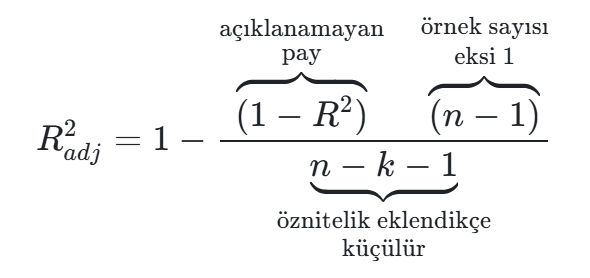
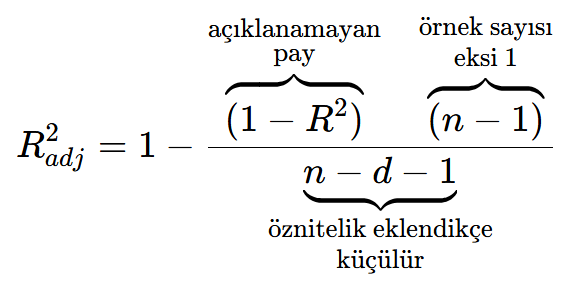
Düzeltilmiş R²'de öznitelik sayısı d, Laplace düzeltmesinde değer sayısı |V_j| ile gösterildi; formül görselleri yeniden üretildi, Laplace için Ne anlatıyor? eklendi

diff --git a/Ders_Notu.md b/Ders_Notu.md
@@ -1887,19 +1887,19 @@ $R^2 = 1 - 1725/61\thinspace 120 \approx 0.972$ → "Fiyatlardaki değişkenliğ
 Modele **anlamsız** bir öznitelik bile eklense (ev sahibinin ayakkabı numarası gibi), eğitim verisindeki $R^2$ artar ya da en kötü ihtimalle aynı kalır; asla azalmaz. Düzeltilmiş $R^2$ öznitelik sayısını cezalandırır:
 
 $$
-R^2_{adj} = 1 - \frac{(1-R^2)(n-1)}{n-k-1}
+R^2_{adj} = 1 - \frac{(1-R^2)(n-1)}{n-d-1}
 $$
 
-<p align="center"><img src="images/formuller/30.png" alt="Açıklamalı formül: Düzeltilmiş R kare" width="295"></p>
+<p align="center"><img src="images/formuller/30.png" alt="Açıklamalı formül: Düzeltilmiş R kare" width="285"></p>
 
-**Ne anlatıyor?** $k$ arttıkça payda küçülür, kesir büyür ve $R^2_{adj}$ düşer. Yeni öznitelik $R^2$'yi bu cezayı aşacak kadar artırmazsa $R^2_{adj}$ azalır.
+**Ne anlatıyor?** $d$ arttıkça payda küçülür, kesir büyür ve $R^2_{adj}$ düşer. Yeni öznitelik $R^2$'yi bu cezayı aşacak kadar artırmazsa $R^2_{adj}$ azalır.
 
 | Sembol | Okunuşu | Anlamı |
 | :---: | :--- | :--- |
 | $n$ | "en" | Örnek sayısı |
-| $k$ | "ka" | Modeldeki öznitelik (bağımsız değişken) sayısı |
+| $d$ | "de" | Modeldeki öznitelik (bağımsız değişken) sayısı |
 
-Eklenen öznitelik açıklayıcılığa anlamlı katkı yapmıyorsa $R^2_{adj}$ artmaz, hatta düşer. **Örnek:** $n = 5$, $k = 1$ için $R^2_{adj} = 1 - \frac{0.0282 \cdot 4}{3} \approx 0.962$.
+Eklenen öznitelik açıklayıcılığa anlamlı katkı yapmıyorsa $R^2_{adj}$ artmaz, hatta düşer. **Örnek:** $n = 5$, $d = 1$ için $R^2_{adj} = 1 - \frac{0.0282 \cdot 4}{3} \approx 0.962$.
 
 #### Korelasyon Katsayısı ($r$)
 
@@ -2178,11 +2178,13 @@ Normalize edersek: $P(no \mid \mathbf{x}) = \frac{0.0206}{0.0053+0.0206} \approx
 
 ### 11.4 Sıfır Frekans Sorunu ve Sayısal Öznitelikler (İleri Seviye)
 
-- **Sıfır frekans:** Eğitim verisinde "outlook = overcast" hiç "no" ile görülmemiştir; $P(overcast \mid no) = 0/5 = 0$. Çarpımda tek bir sıfır tüm sonucu sıfırlar. Çözüm **Laplace düzeltmesidir**: her sayıma 1 eklenir, $P(x_j = v \mid C) = \frac{\text{sayım} + 1}{n_C + k}$ ($k$: özniteliğin farklı değer sayısı). WEKA bunu otomatik yapar.
+- **Sıfır frekans:** Eğitim verisinde "outlook = overcast" hiç "no" ile görülmemiştir; $P(overcast \mid no) = 0/5 = 0$. Çarpımda tek bir sıfır tüm sonucu sıfırlar. Çözüm **Laplace düzeltmesidir**: her sayıma 1 eklenir, $P(x_j = v \mid C) = \frac{\text{sayım} + 1}{n_C + \lvert V_j \rvert}$ ($\lvert V_j \rvert$: $j$. özniteliğin alabileceği farklı değer sayısı). WEKA bunu otomatik yapar.
 
-  <img src="images/formuller/34.png" alt="Açıklamalı formül: Laplace düzeltmesi" width="311">
+  <img src="images/formuller/34.png" alt="Açıklamalı formül: Laplace düzeltmesi" width="302">
 
-  **Örnek:** outlook'un 3 değeri vardır, "no" sınıfında 5 örnek bulunur: $P(\text{overcast} \mid \text{no}) = (0 + 1)/(5 + 3) = 0.125$. Olasılık artık sıfır değildir.
+  **Ne anlatıyor?** Özniteliğin her değeri için baştan bir "sanal" gözlem eklenmiş gibi davranılır; böylece eğitimde hiç görülmemiş bir değer de küçük ama sıfır olmayan bir olasılık alır. Paydaya değer sayısı ($\lvert V_j \rvert$) eklenmesi, olasılıkların toplamının yine 1 olmasını sağlar.
+
+  **Örnek:** outlook'un 3 değeri vardır ($\lvert V_j \rvert = 3$), "no" sınıfında 5 örnek bulunur: $P(\text{overcast} \mid \text{no}) = (0 + 1)/(5 + 3) = 0.125$. Olasılık artık sıfır değildir.
 - **Sayısal öznitelikler:** Her sınıfta özniteliğin **normal (Gauss) dağıldığı** varsayılır ve olasılık yoğunluğu $\frac{1}{\sqrt{2\pi}\sigma}e^{-\frac{(x-\mu)^2}{2\sigma^2}}$ ile hesaplanır (Gaussian Naive Bayes). WEKA'da alternatif olarak `useKernelEstimator` veya `useSupervisedDiscretization` seçilebilir.
 
   <img src="images/formuller/35.png" alt="Açıklamalı formül: Gauss olasılık yoğunluğu" width="394">

diff --git a/images/formuller/README.md b/images/formuller/README.md
@@ -236,10 +236,10 @@ R^2 = 1 - \frac{\overbrace{SS_{res}}^{\substack{\text{modelin}\\[2pt]\text{hatas
 
 ## 30.png
 
-*Ar kare düzeltilmiş eşittir, bir eksi, bir eksi ar kare çarpı en eksi bir, bölü en eksi ka eksi bir.*
+*Ar kare düzeltilmiş eşittir, bir eksi, bir eksi ar kare çarpı en eksi bir, bölü en eksi de eksi bir.*
 
 ```math
-R^2_{adj} = 1 - \frac{\overbrace{(1-R^2)}^{\substack{\text{açıklanamayan}\\[2pt]\text{pay}}}\quad\overbrace{(n-1)}^{\substack{\text{örnek sayısı}\\[2pt]\text{eksi 1}}}}{\underbrace{n-k-1}_{\substack{\text{öznitelik eklendikçe}\\[2pt]\text{küçülür}}}}
+R^2_{adj} = 1 - \frac{\overbrace{(1-R^2)}^{\substack{\text{açıklanamayan}\\[2pt]\text{pay}}}\quad\overbrace{(n-1)}^{\substack{\text{örnek sayısı}\\[2pt]\text{eksi 1}}}}{\underbrace{n-d-1}_{\substack{\text{öznitelik eklendikçe}\\[2pt]\text{küçülür}}}}
 ```
 
 ## 31.png
@@ -268,10 +268,10 @@ r = \frac{\overbrace{\sum_i (x_i - \bar{x})(y_i - \bar{y})}^{\substack{\text{x i
 
 ## 34.png
 
-*Ce verildiğinde iks alt j'nin ve'ye eşit olma olasılığı eşittir, sayım artı bir, bölü en alt ce artı ka.*
+*Ce verildiğinde iks alt j'nin ve'ye eşit olma olasılığı eşittir, sayım artı bir, bölü en alt ce artı ve alt j'nin eleman sayısı.*
 
 ```math
-\underbrace{P(x_j = v \mid C)}_ {\substack{\text{C sınıfında özniteliğin}\\\text{v değerini alma olasılığı}}} = \frac{\overbrace{\text{sayım} + 1}^{\substack{\text{her sayıma}\\\text{1 eklenir}}}}{\underbrace{n_C + k}_ {\substack{\text{sınıftaki örnek sayısı}\\\text{artı farklı değer sayısı}}}}
+\underbrace{P(x_j = v \mid C)}_ {\substack{\text{C sınıfında özniteliğin}\\\text{v değerini alma olasılığı}}} = \frac{\overbrace{\text{sayım} + 1}^{\substack{\text{her sayıma}\\\text{1 eklenir}}}}{\underbrace{n_C + \lvert V_j \rvert}_ {\substack{\text{sınıftaki örnek sayısı}\\\text{artı farklı değer sayısı}}}}
 ```
 
 ## 35.png
